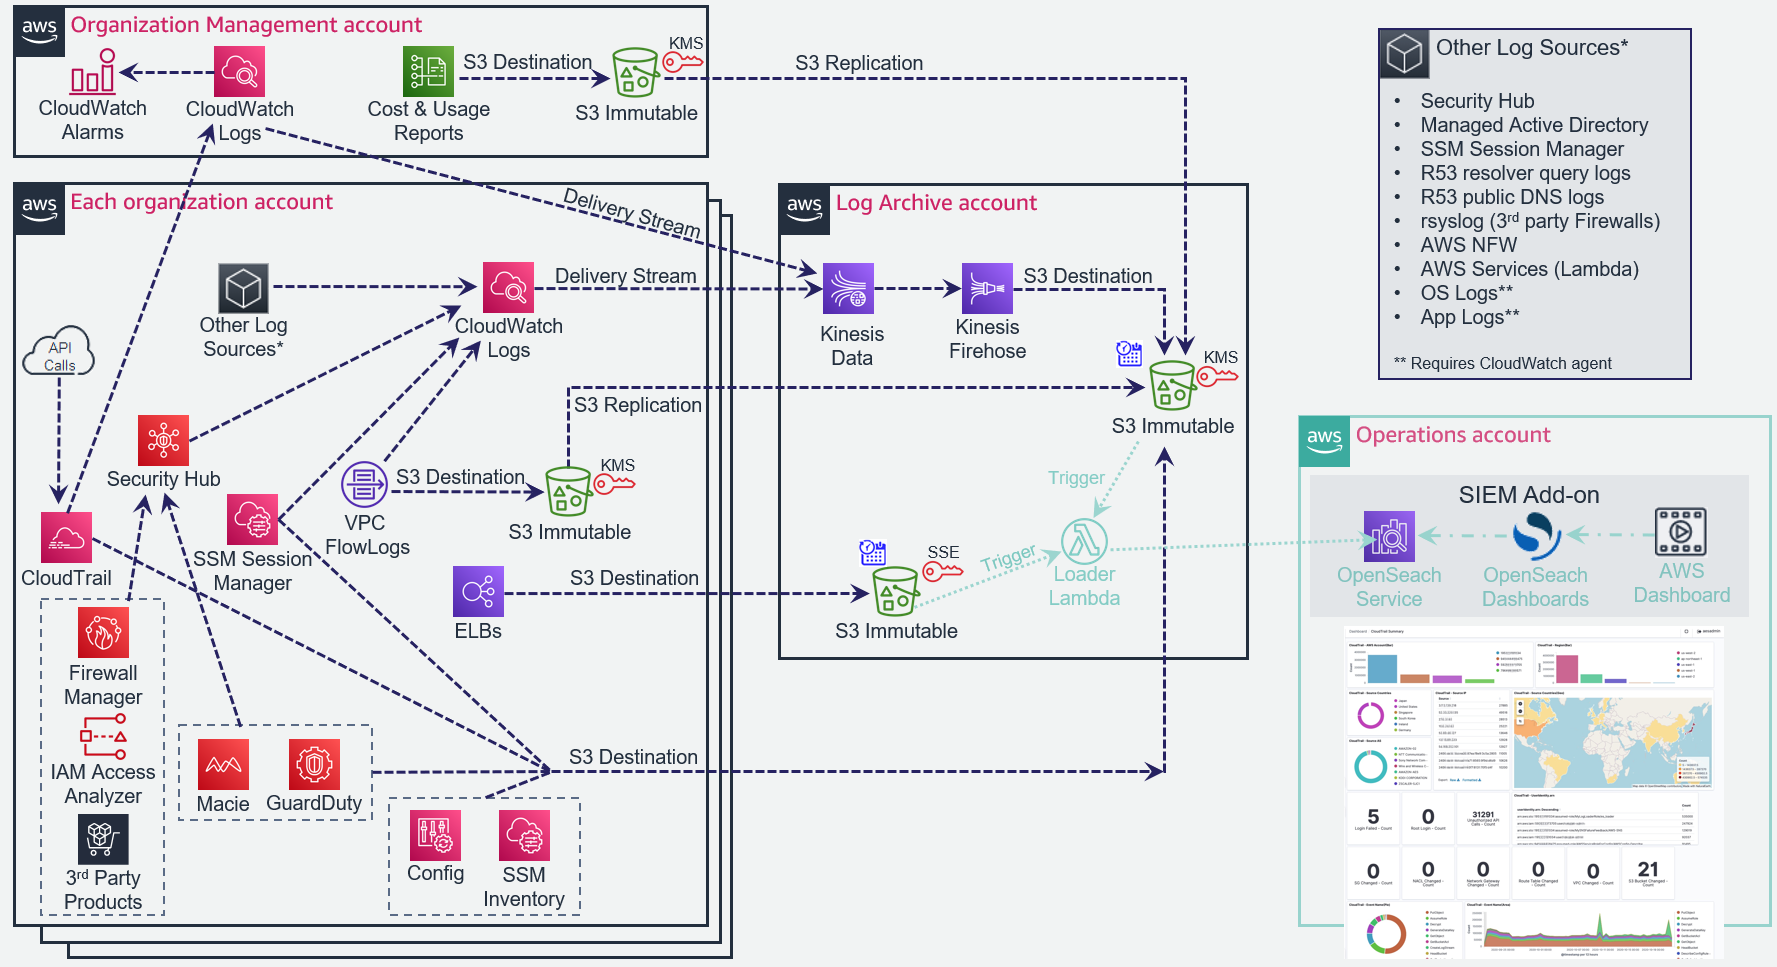
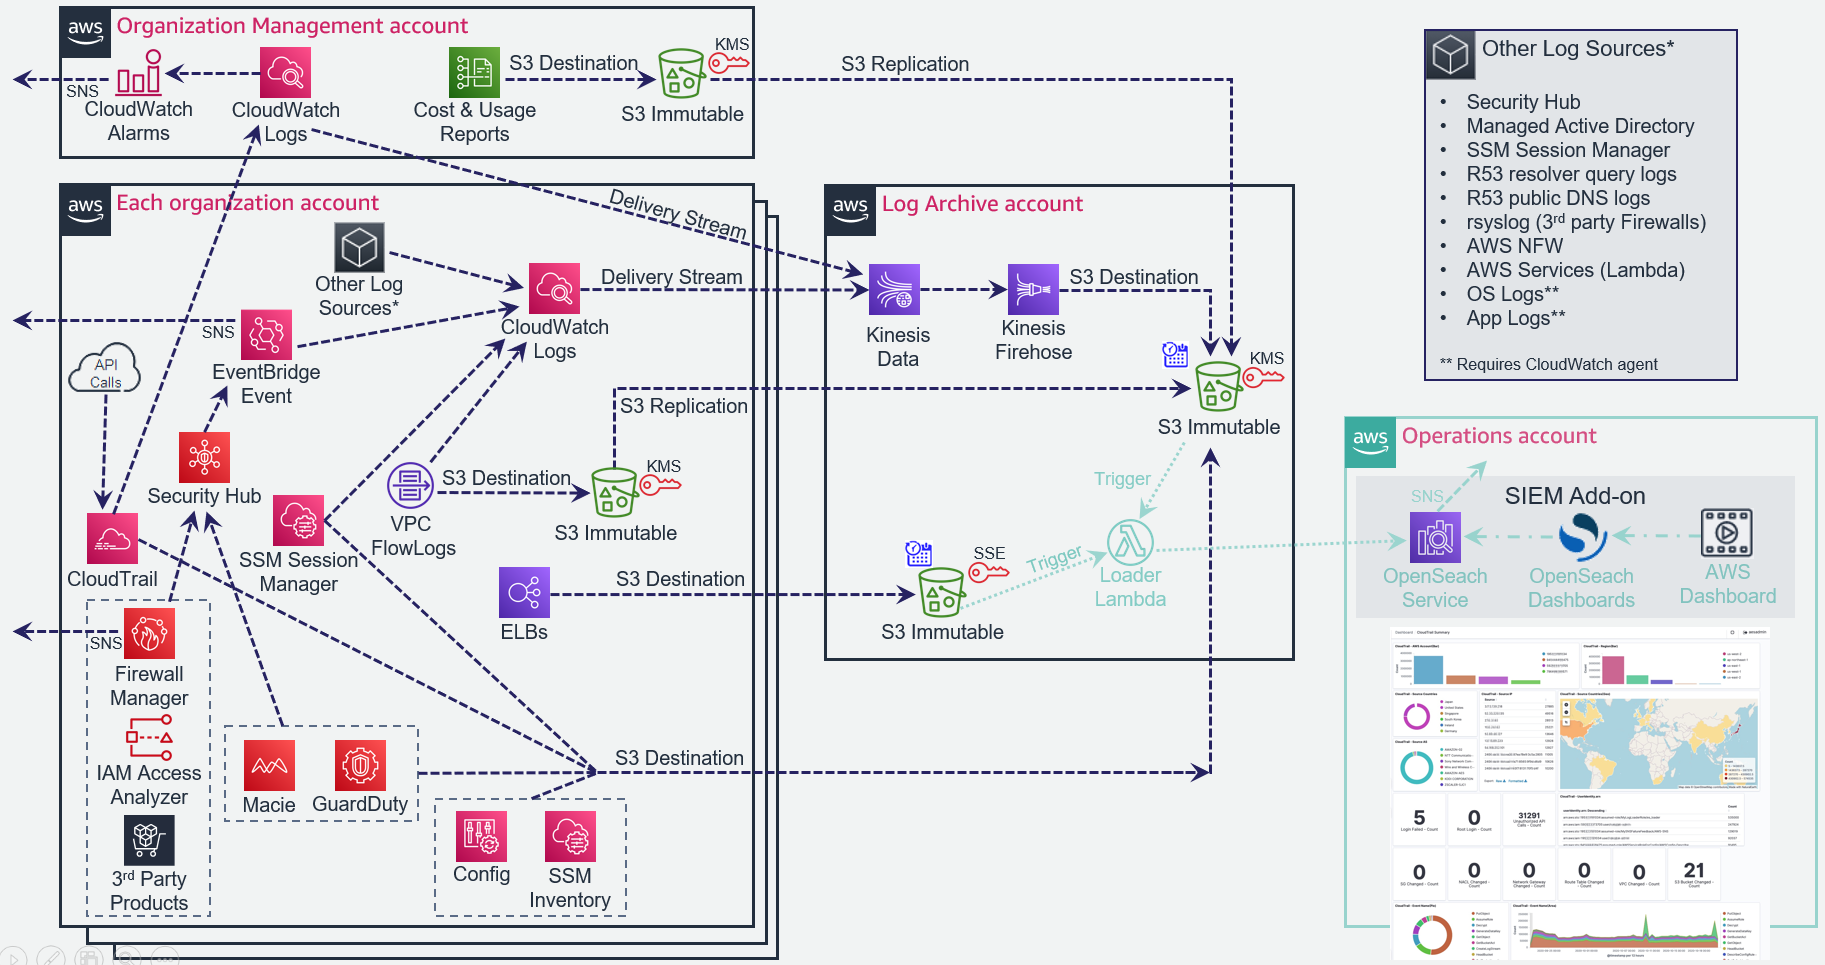
add diagram of architecture
- update logging architecture diagram
- add reference inside the add-on readme

Changed region(s): [[0.0, 0.0, 1.0, 0.9948], [0.9285, 0.4974, 0.9595, 0.6218], [0.1548, 0.6528, 0.1857, 0.6839]]

diff --git a/reference-artifacts/Add-ons/opensiem/README.md b/reference-artifacts/Add-ons/opensiem/README.md
@@ -12,6 +12,10 @@ At a highlevel, the deployment steps consist of the following:
 
 The total deployment time takes approximately 30 minutes (+ ASEA State Machine execution time). The AWS resources deployed extend beyond the AWS Free tier; you will incur AWS charges when this solution is deployed.
 
+The following diagram details the ASEA + OpenSIEM Add-On logging architecture. The OpenSIEM Add-On components are documented in turquoise on the right side of the diagram in both the log-archive and the operations accounts.
+
+![Logging](../../../docs/architectures/images/ASEA-Logging-Arch.png)
+
 ## Prerequisites
 
 1. ASEA v1.5.1 or above
@@ -92,26 +96,26 @@ The **SiemConfig.json** file is used to configure how this solution is deployed 
 }
 ```
 
-| Config                          | Description                                                                                                                                                                                                                                                                         |
-| ------------------------------- | ----------------------------------------------------------------------------------------------------------------------------------------------------------------------------------------------------------------------------------------------------------------------------------- |
-| operationsAccountId             | This is the AWS Account ID for the Operations account                                                                                                                                                                                                                               |
-| logArchiveAccountId             | This is the AWS Account ID for the Log Archive account                                                                                                                                                                                                                              |
-| vpcId                           | This is the VPC Id, within the Operations account, where the OpenSearch Domain will be deployed                                                                                                                                                                                     |
-| region                          | This is the ASEA primary or home region                                                                                                                                                                                                                                             |
-| s3LogBuckets                    | This contains a string array of the S3 Bucket names, in the Log Archive account, that will have S3 Notifications configured. In the default ASEA architecture, there are 2 S3 buckets that should be added here.                                                                    |
-| securityGroups                  | This structure is similar to what is used in the ASEA config file, but with reduced implementation. The security groups here will be applied to the Lambda Functions and OpenSearch domain. The Security Groups will be created by this project. The inbound rules should be updated to reflect the allowed IPs. In the example, the IP range is the VPC CIDR in the Operations AWS account.                                    |
-| appSubnets                      | These are the SubnetIds of existing subnets within the VPC. The Lambda Functions and OpenSearch domain will be deployed into the Subnets defined here.                                                                                                                              |
-| lambdaLogProcessingRoleArn      | This is the IAM Role that the **Lambda Processor** will use to download S3 Objects from the Log Archive and write documents to OpenSearch. This is a protected role that is referenced by this project, but created by the ASEA. More details below. This value must be an IAM ARN. |
-| cognitoDomainPrefix             | Amazon Cognito is used to provision user access to the OpenSearch Dashboards. The value specified here will be used as the domain; it must be regionally unique. (You can't use the text aws, amazon, or cognito, in the domain prefix)                                             |
-| openSearchDomainName            | This is the name for the OpenSearch domain                                                                                                                                                                                                                                          |
-| openSearchInstanceTypeMainNodes | This specifies the OpenSearch instance type for the main nodes. ([Supported Types](https://docs.aws.amazon.com/opensearch-service/latest/developerguide/supported-instance-types.html))                                                                                             |
-| openSearchInstanceTypeDataNodes | This specifies the OpenSearch instance type for the data nodes. ([Supported Types](https://docs.aws.amazon.com/opensearch-service/latest/developerguide/supported-instance-types.html))                                                                                             |
-| openSearchCapacityMainNodes     | This specifies the number of OpenSearch main nodes to provision.                                                                                                                                                                                                                    |
-| openSearchInstanceTypeDataNodes | This specifies the number of OpenSearch data nodes to provision.                                                                                                                                                                                                                    |
-| openSearchVolumeSize            | This specifies the amount of storage (GB) provisioned for the data nodes. This impacts the amount of available storage for the Domain. Note there are [limits](https://docs.aws.amazon.com/opensearch-service/latest/developerguide/limits.html) for EBS size for instance types.   |
-| openSearchConfiguration         | This is the file name of the SIEM search configuration. This file should reside in the _config_ folder. This json file mirrors the content found in the _SIEM on Amazon OpenSearch Service_ corresponding INI file.                                                                 |
-| maxmindLicense                  | This is the file name of the MaxMind license file. This file should reside in the _config_ folder. This is an optional configuration that enables IP to Geo which enables map visualizations. Leave blank ("") to skip the deployment of this functionality.                        |
-| siemVersion                     | This is a label used to identitfy the _SIEM on Amazon OpenSearch Service_ or your own version/configuration of the Lambdas. This applies an environment variable to the Lambdas and a change to this value will execute the lambdas on CDK deployment.                              |
+| Config                          | Description                                                                                                                                                                                                                                                                                                                                                                                  |
+| ------------------------------- | -------------------------------------------------------------------------------------------------------------------------------------------------------------------------------------------------------------------------------------------------------------------------------------------------------------------------------------------------------------------------------------------- |
+| operationsAccountId             | This is the AWS Account ID for the Operations account                                                                                                                                                                                                                                                                                                                                        |
+| logArchiveAccountId             | This is the AWS Account ID for the Log Archive account                                                                                                                                                                                                                                                                                                                                       |
+| vpcId                           | This is the VPC Id, within the Operations account, where the OpenSearch Domain will be deployed                                                                                                                                                                                                                                                                                              |
+| region                          | This is the ASEA primary or home region                                                                                                                                                                                                                                                                                                                                                      |
+| s3LogBuckets                    | This contains a string array of the S3 Bucket names, in the Log Archive account, that will have S3 Notifications configured. In the default ASEA architecture, there are 2 S3 buckets that should be added here.                                                                                                                                                                             |
+| securityGroups                  | This structure is similar to what is used in the ASEA config file, but with reduced implementation. The security groups here will be applied to the Lambda Functions and OpenSearch domain. The Security Groups will be created by this project. The inbound rules should be updated to reflect the allowed IPs. In the example, the IP range is the VPC CIDR in the Operations AWS account. |
+| appSubnets                      | These are the SubnetIds of existing subnets within the VPC. The Lambda Functions and OpenSearch domain will be deployed into the Subnets defined here.                                                                                                                                                                                                                                       |
+| lambdaLogProcessingRoleArn      | This is the IAM Role that the **Lambda Processor** will use to download S3 Objects from the Log Archive and write documents to OpenSearch. This is a protected role that is referenced by this project, but created by the ASEA. More details below. This value must be an IAM ARN.                                                                                                          |
+| cognitoDomainPrefix             | Amazon Cognito is used to provision user access to the OpenSearch Dashboards. The value specified here will be used as the domain; it must be regionally unique. (You can't use the text aws, amazon, or cognito, in the domain prefix)                                                                                                                                                      |
+| openSearchDomainName            | This is the name for the OpenSearch domain                                                                                                                                                                                                                                                                                                                                                   |
+| openSearchInstanceTypeMainNodes | This specifies the OpenSearch instance type for the main nodes. ([Supported Types](https://docs.aws.amazon.com/opensearch-service/latest/developerguide/supported-instance-types.html))                                                                                                                                                                                                      |
+| openSearchInstanceTypeDataNodes | This specifies the OpenSearch instance type for the data nodes. ([Supported Types](https://docs.aws.amazon.com/opensearch-service/latest/developerguide/supported-instance-types.html))                                                                                                                                                                                                      |
+| openSearchCapacityMainNodes     | This specifies the number of OpenSearch main nodes to provision.                                                                                                                                                                                                                                                                                                                             |
+| openSearchInstanceTypeDataNodes | This specifies the number of OpenSearch data nodes to provision.                                                                                                                                                                                                                                                                                                                             |
+| openSearchVolumeSize            | This specifies the amount of storage (GB) provisioned for the data nodes. This impacts the amount of available storage for the Domain. Note there are [limits](https://docs.aws.amazon.com/opensearch-service/latest/developerguide/limits.html) for EBS size for instance types.                                                                                                            |
+| openSearchConfiguration         | This is the file name of the SIEM search configuration. This file should reside in the _config_ folder. This json file mirrors the content found in the _SIEM on Amazon OpenSearch Service_ corresponding INI file.                                                                                                                                                                          |
+| maxmindLicense                  | This is the file name of the MaxMind license file. This file should reside in the _config_ folder. This is an optional configuration that enables IP to Geo which enables map visualizations. Leave blank ("") to skip the deployment of this functionality.                                                                                                                                 |
+| siemVersion                     | This is a label used to identitfy the _SIEM on Amazon OpenSearch Service_ or your own version/configuration of the Lambdas. This applies an environment variable to the Lambdas and a change to this value will execute the lambdas on CDK deployment.                                                                                                                                       |
 
 ---
 
